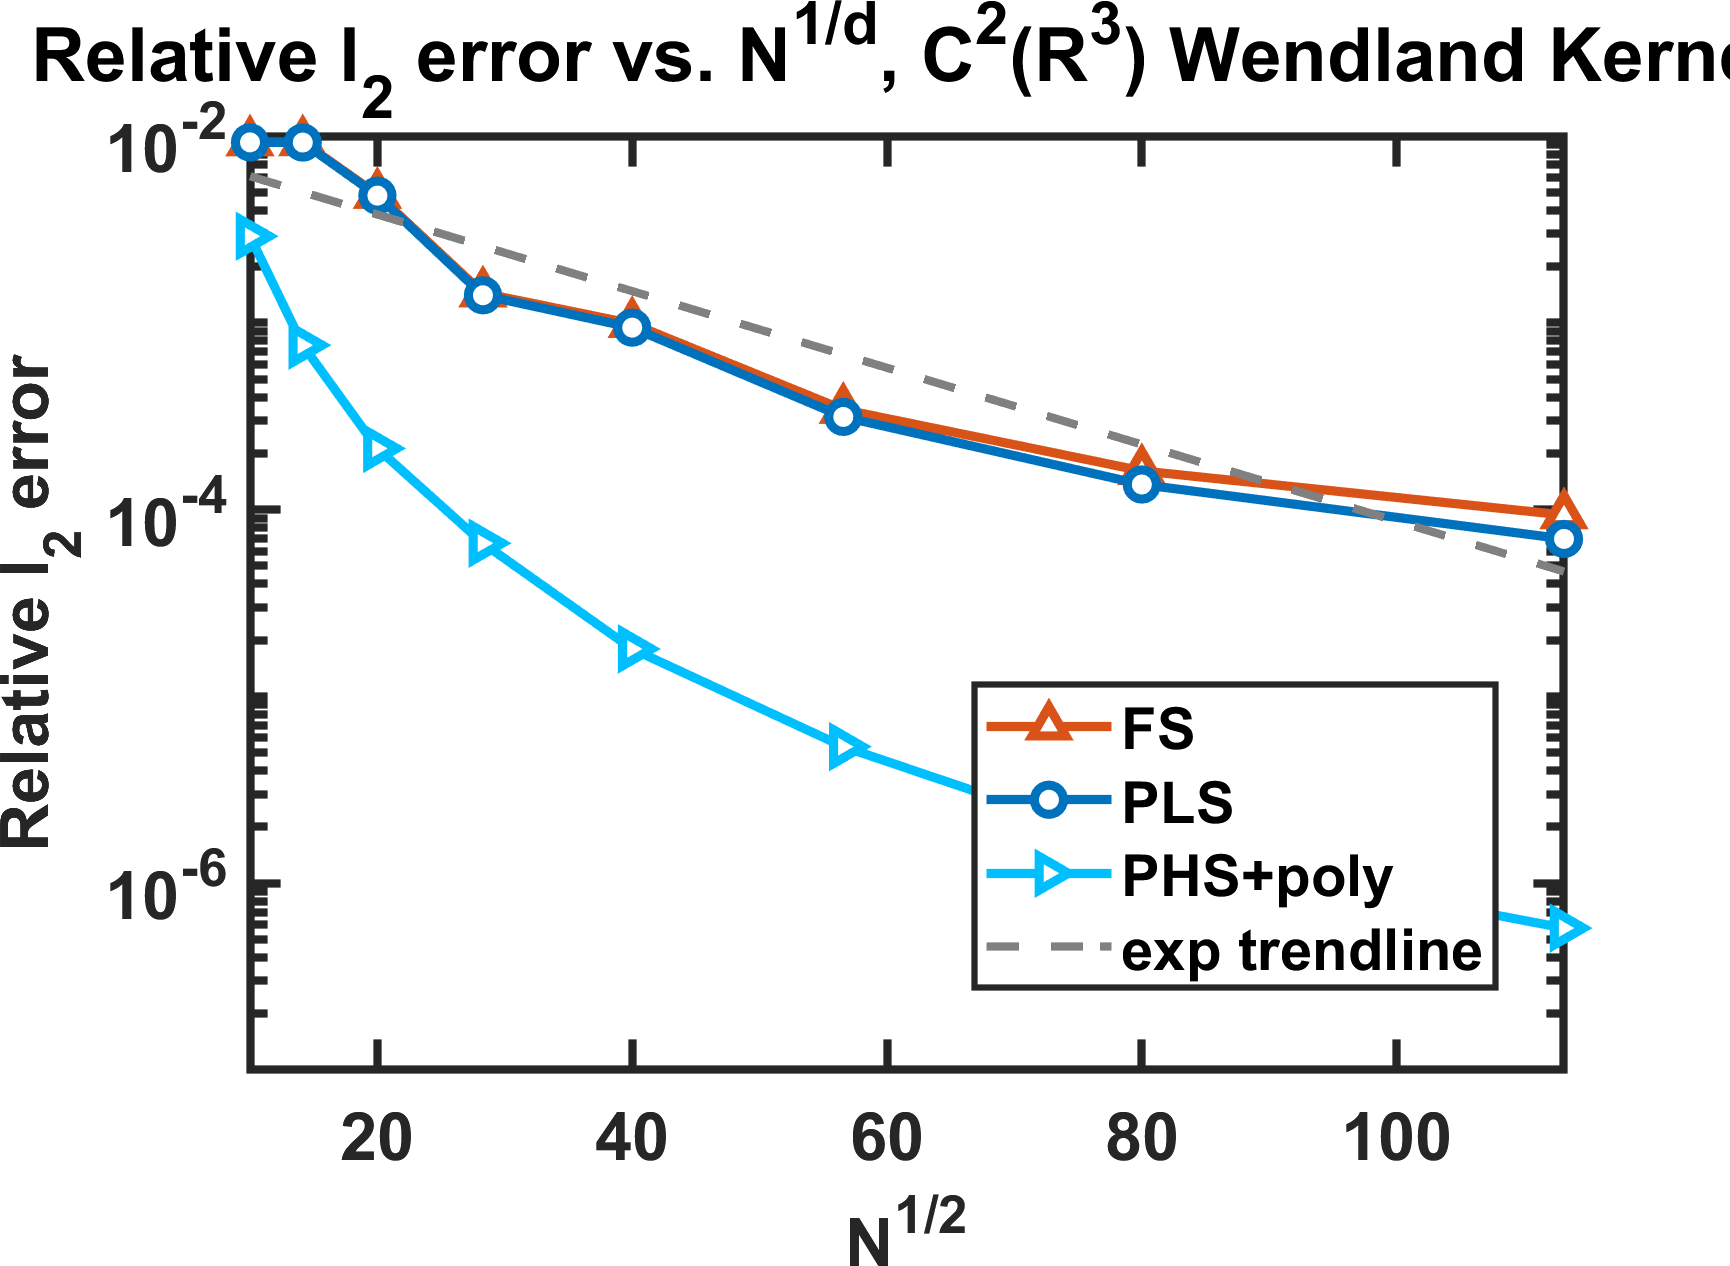
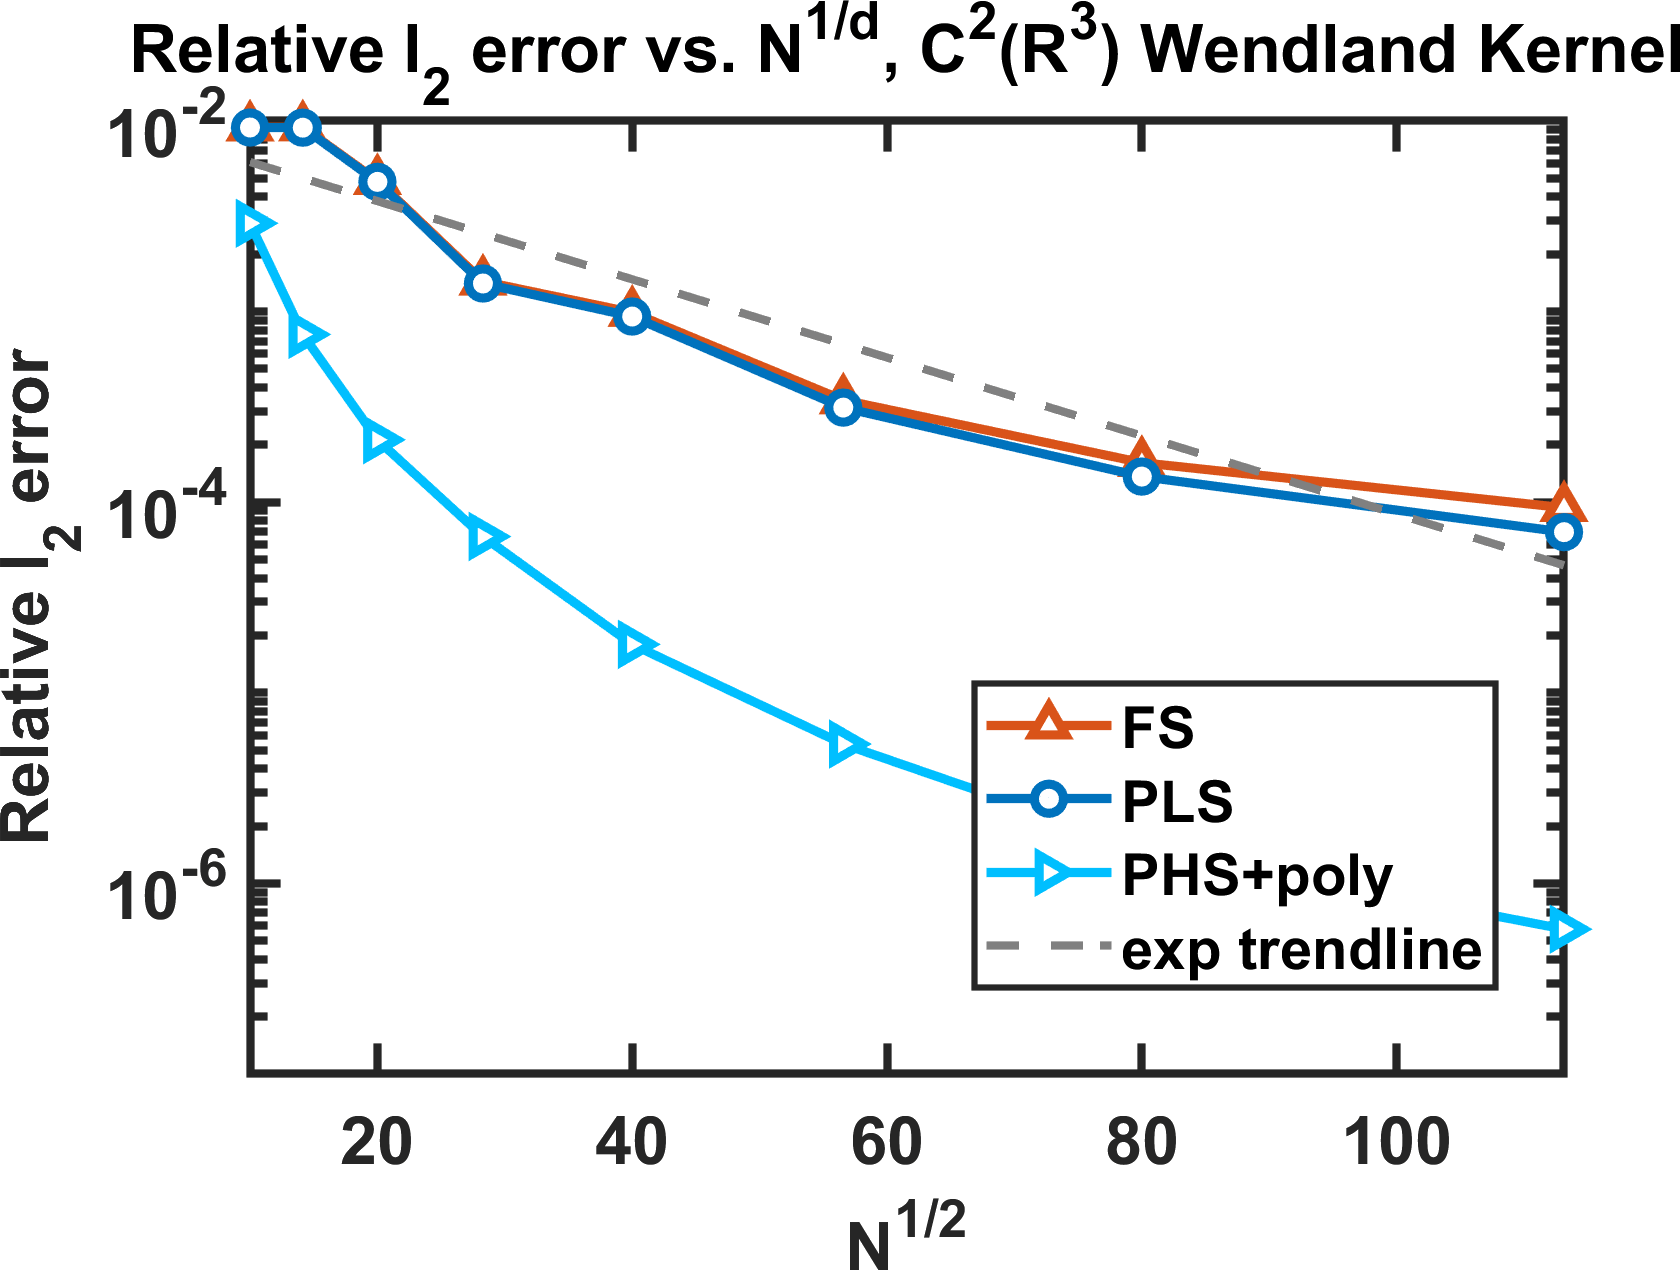
adjustments to plots for manifolds

Changed region(s): [[0.0, 0.0, 1.0, 1.0], [0.0, 0.4313, 0.031, 0.6777], [0.0, 0.2773, 0.031, 0.4005]]

diff --git a/experiments/manifolds/TorusTestPHS.m b/experiments/manifolds/TorusTestPHS.m
@@ -76,8 +76,8 @@ results_filename = fullfile(results_dir, sprintf('results_%s.mat', function_name
 
 % Save everything
 save(results_filename, ...
-    'el2_poly', 'elinf_poly', 'a_time_poly', 'e_time_poly', 'coeff_exp', 'ell', ...
+    'el2_poly', 'elinf_poly', 'a_time_poly', 'e_time_poly', 'ell', ...
     'el2', 'elinf', 'a_time', 'e_time', 'cond_num', 'sparsity', ...
     'el2_phs','elinf_phs','a_time_phs','e_time_phs','cond_phs','spars_phs', ...
-    'a','b','ep','p_phs','pinv_tol', ...
+    'ep','p_phs','pinv_tol', ...
     'Ns','sN', 'function_name', 'timestamp');

diff --git a/experiments/plotting/plot_l2_manifold.m b/experiments/plotting/plot_l2_manifold.m
@@ -161,7 +161,7 @@ function plotErrorVsN_manifold(res)
     % labels/title
     xlabel('N^{1/2}','Interpreter','tex','FontSize',16,'FontWeight','bold');
     ylabel('Relative l_2 error','Interpreter','tex','FontSize',16,'FontWeight','bold');
-    title('Relative l_2 error vs. N^{1/d}, C^2(R^3) Wendland Kernel', 'Interpreter','tex','FontSize',18,'FontWeight','bold');
+    title('Relative l_2 error vs. N^{1/d}, C^2(R^3) Wendland Kernel', 'Interpreter','tex','FontSize',16,'FontWeight','bold');
 
     % legend
     if ~isempty(H)
